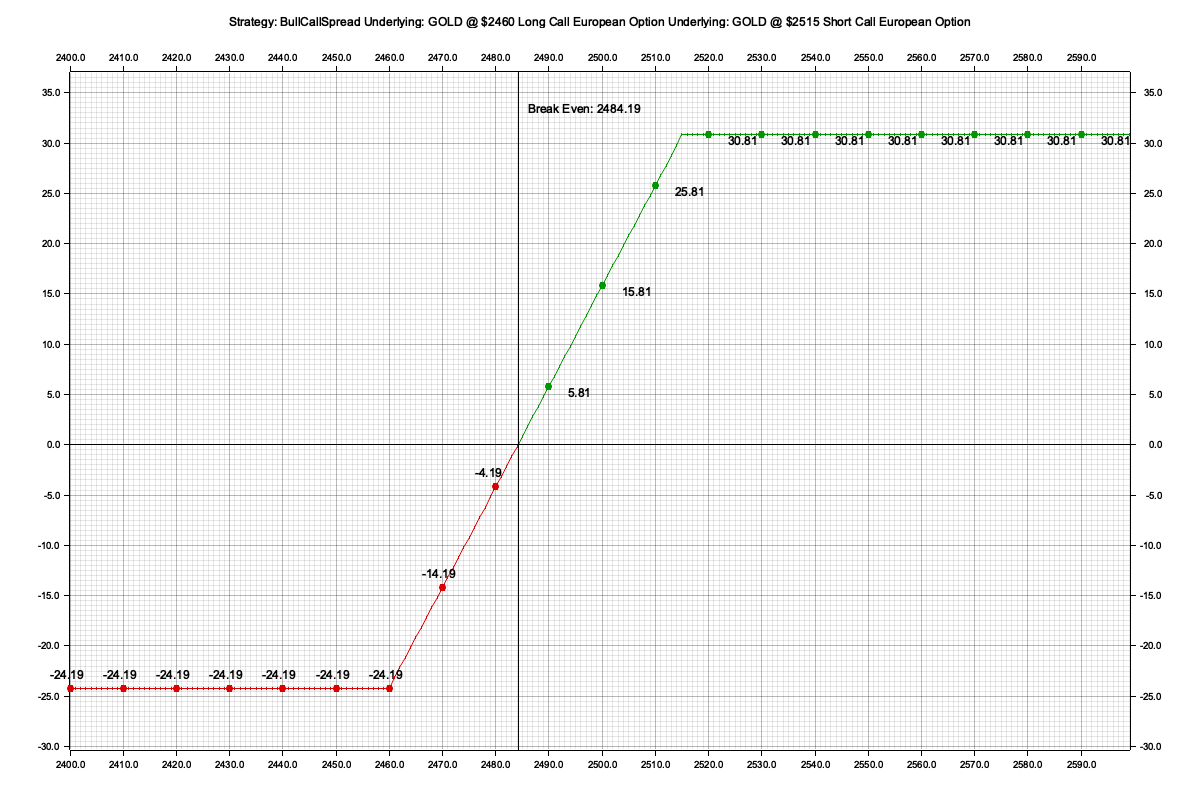
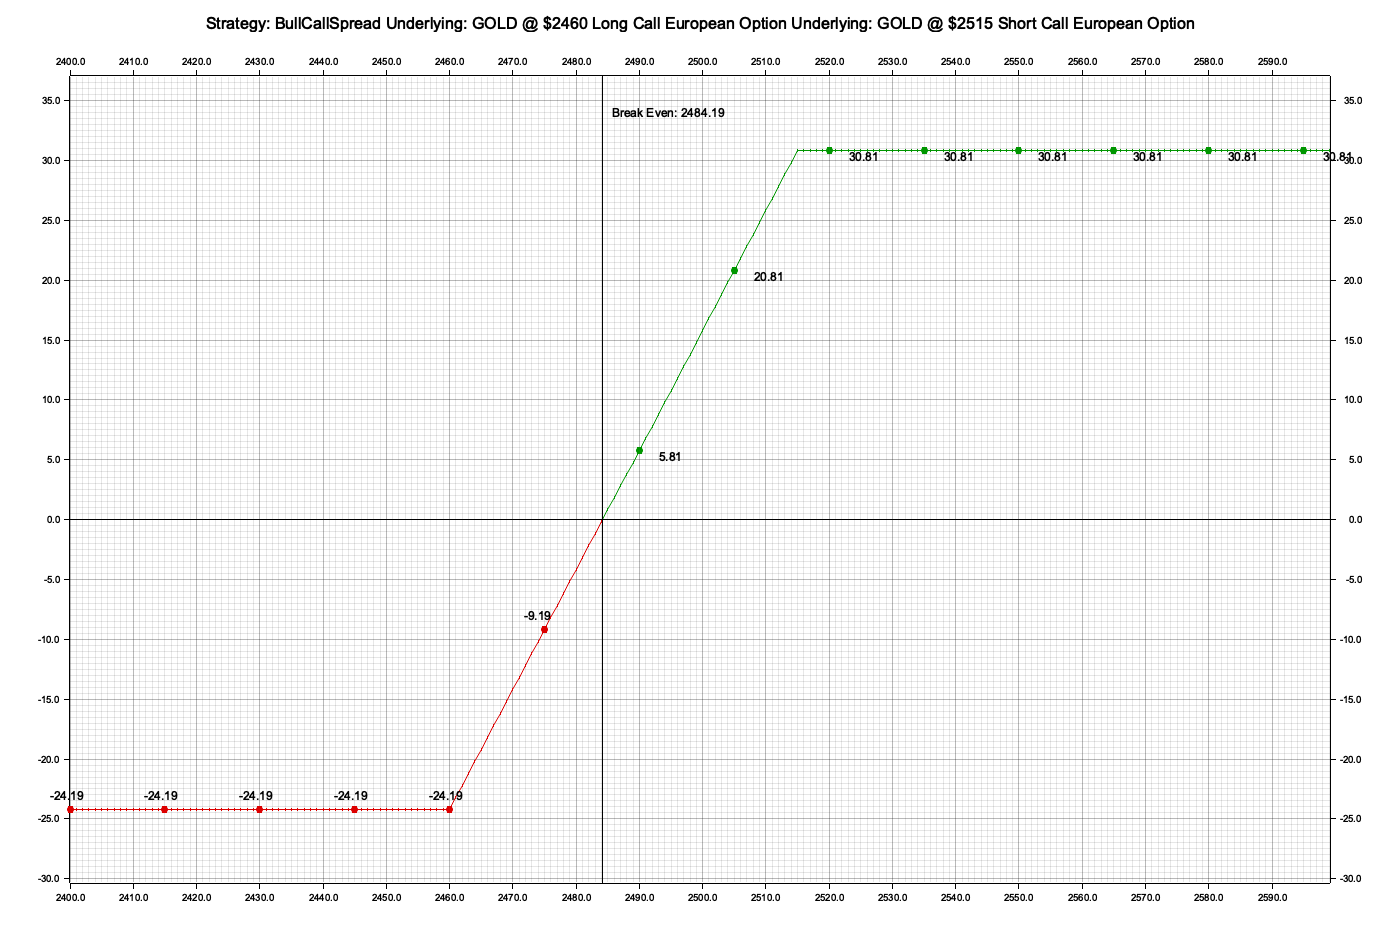
Enhance graph function with customizable parameters
Extended the 'graph' function to accept additional parameters for title size, canvas size, label coordinates, and label interval. Updated example files to utilize these new parameters, allowing for more flexible and detailed graph configurations.

Changed region(s): [[0.0308, 0.0625, 0.9867, 0.9688], [0.1542, 0.0, 0.8633, 0.0312]]

diff --git a/src/visualization/utils.rs b/src/visualization/utils.rs
@@ -9,7 +9,7 @@ use crate::{
     draw_points_with_labels, draw_vertical_lines_and_labels,
 };
 use plotters::backend::BitMapBackend;
-use plotters::chart::ChartBuilder;
+use plotters::chart::{ChartBuilder};
 use plotters::element::{Circle, EmptyElement, Text};
 use plotters::prelude::{IntoDrawingArea, IntoFont, LineSeries, PointSeries, BLACK, WHITE};
 use std::error::Error;
@@ -144,7 +144,14 @@ macro_rules! draw_points_with_labels {
 }
 
 pub trait Graph {
-    fn graph(&self, x_axis_data: &[f64], file_path: &str) -> Result<(), Box<dyn Error>> {
+    fn graph(&self,
+             x_axis_data: &[f64],
+             file_path: &str,
+             title_size: u32, // 15
+             canvas_size: (u32, u32), // (1200, 800)
+             label_coors: (i32, i32), // (10, 30)
+             label_interval: usize, // 10
+    ) -> Result<(), Box<dyn Error>> {
         // Generate profit values for each price in the data vector
         let y_axis_data: Vec<f64> = self.get_values(x_axis_data);
 
@@ -153,12 +160,12 @@ pub trait Graph {
             calculate_axis_range(x_axis_data, &y_axis_data);
 
         // Set up the drawing area with a 1200x800 pixel canvas
-        let root = create_drawing_area!(file_path, 1200, 800);
+        let root = create_drawing_area!(file_path, canvas_size.0, canvas_size.1);
 
         let mut chart = build_chart!(
             &root,
             self.title(),
-            15,
+            title_size,
             min_x_value,
             max_x_value,
             min_y_value,
@@ -174,9 +181,9 @@ pub trait Graph {
             min_y_value,
             max_y_value,
             BLACK,
-            (10, 30)
+            label_coors
         );
-        draw_points_with_labels!(chart, x_axis_data, y_axis_data, DARK_GREEN, DARK_RED, 10);
+        draw_points_with_labels!(chart, x_axis_data, y_axis_data, DARK_GREEN, DARK_RED, label_interval);
 
         root.present()?;
         Ok(())

diff --git a/examples/position_graph.rs b/examples/position_graph.rs
@@ -27,11 +27,22 @@ fn create_sample_option() -> Options {
     )
 }
 fn main() -> Result<(), Box<dyn Error>> {
-    let position = Position::new(create_sample_option(), 5.71, Utc::now(), 1.0, 1.0);
+    let position = Position::new(create_sample_option(),
+                                 5.71,
+                                 Utc::now(),
+                                 1.0,
+                                 1.0,
+    );
 
     let price_range: Vec<f64> = (50..150).map(|x| x as f64).collect();
 
-    position.graph(&price_range, "Draws/Position/pnl_at_expiration_chart.png")?;
+    position.graph(&price_range,
+                   "Draws/Position/pnl_at_expiration_chart.png",
+                   25,
+                   (1400, 933),
+                   (10, 30),
+                   10,
+    )?;
 
     Ok(())
 }

diff --git a/examples/option_graph.rs b/examples/option_graph.rs
@@ -34,7 +34,13 @@ fn main() -> Result<(), Box<dyn Error>> {
     let price_range: Vec<f64> = (50..150).map(|x| x as f64).collect();
 
     // Generate the intrinsic value graph
-    option.graph(&price_range, "Draws/Options/intrinsic_value_chart.png")?;
+    option.graph(&price_range,
+                 "Draws/Options/intrinsic_value_chart.png",
+                 25,
+                 (1400, 933),
+                 (10, 30),
+                 10
+    )?;
 
     Ok(())
 }

diff --git a/examples/strategy_graph.rs b/examples/strategy_graph.rs
@@ -60,7 +60,12 @@ fn main() -> Result<(), Box<dyn Error>> {
     strategy.graph(
         &price_range,
         "Draws/Strategy/bull_call_spread_value_chart.png",
+        20,
+        (1400, 933),
+        (10, 30),
+        15
     )?;
+
 
     Ok(())
 }
